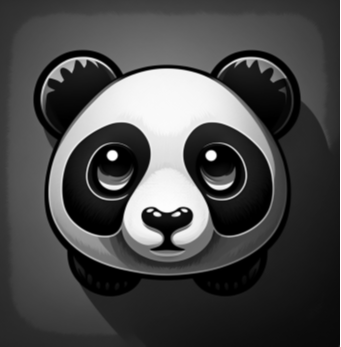
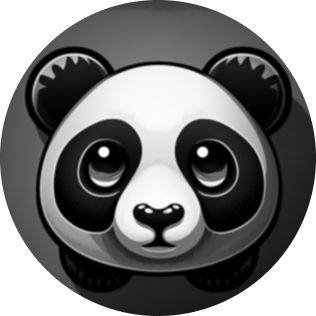
crop dead, added zh append username feature

diff --git a/public/js/main.js b/public/js/main.js
@@ -290,6 +290,7 @@ async function createMsg(
     let username = document.createElement("span");
     username.innerText = `@${authorUsername}`;
     username.className = "username";
+    username.onclick = () => {textbox.value += "@" + authorUsername};
 
     let msg = document.createElement("p");
     msg.innerText = content;

diff --git a/public/css/main.css b/public/css/main.css
@@ -303,6 +303,16 @@ body {
     font-weight: lighter;
 }
 
+.bottom-username {
+    color: #aaa;
+    font-weight: lighter;
+}
+
+.username:hover {
+    text-decoration: underline;
+    cursor: pointer;
+}
+
 .font-size-2_5vh {
     font-size: 2.5vh;
 }
